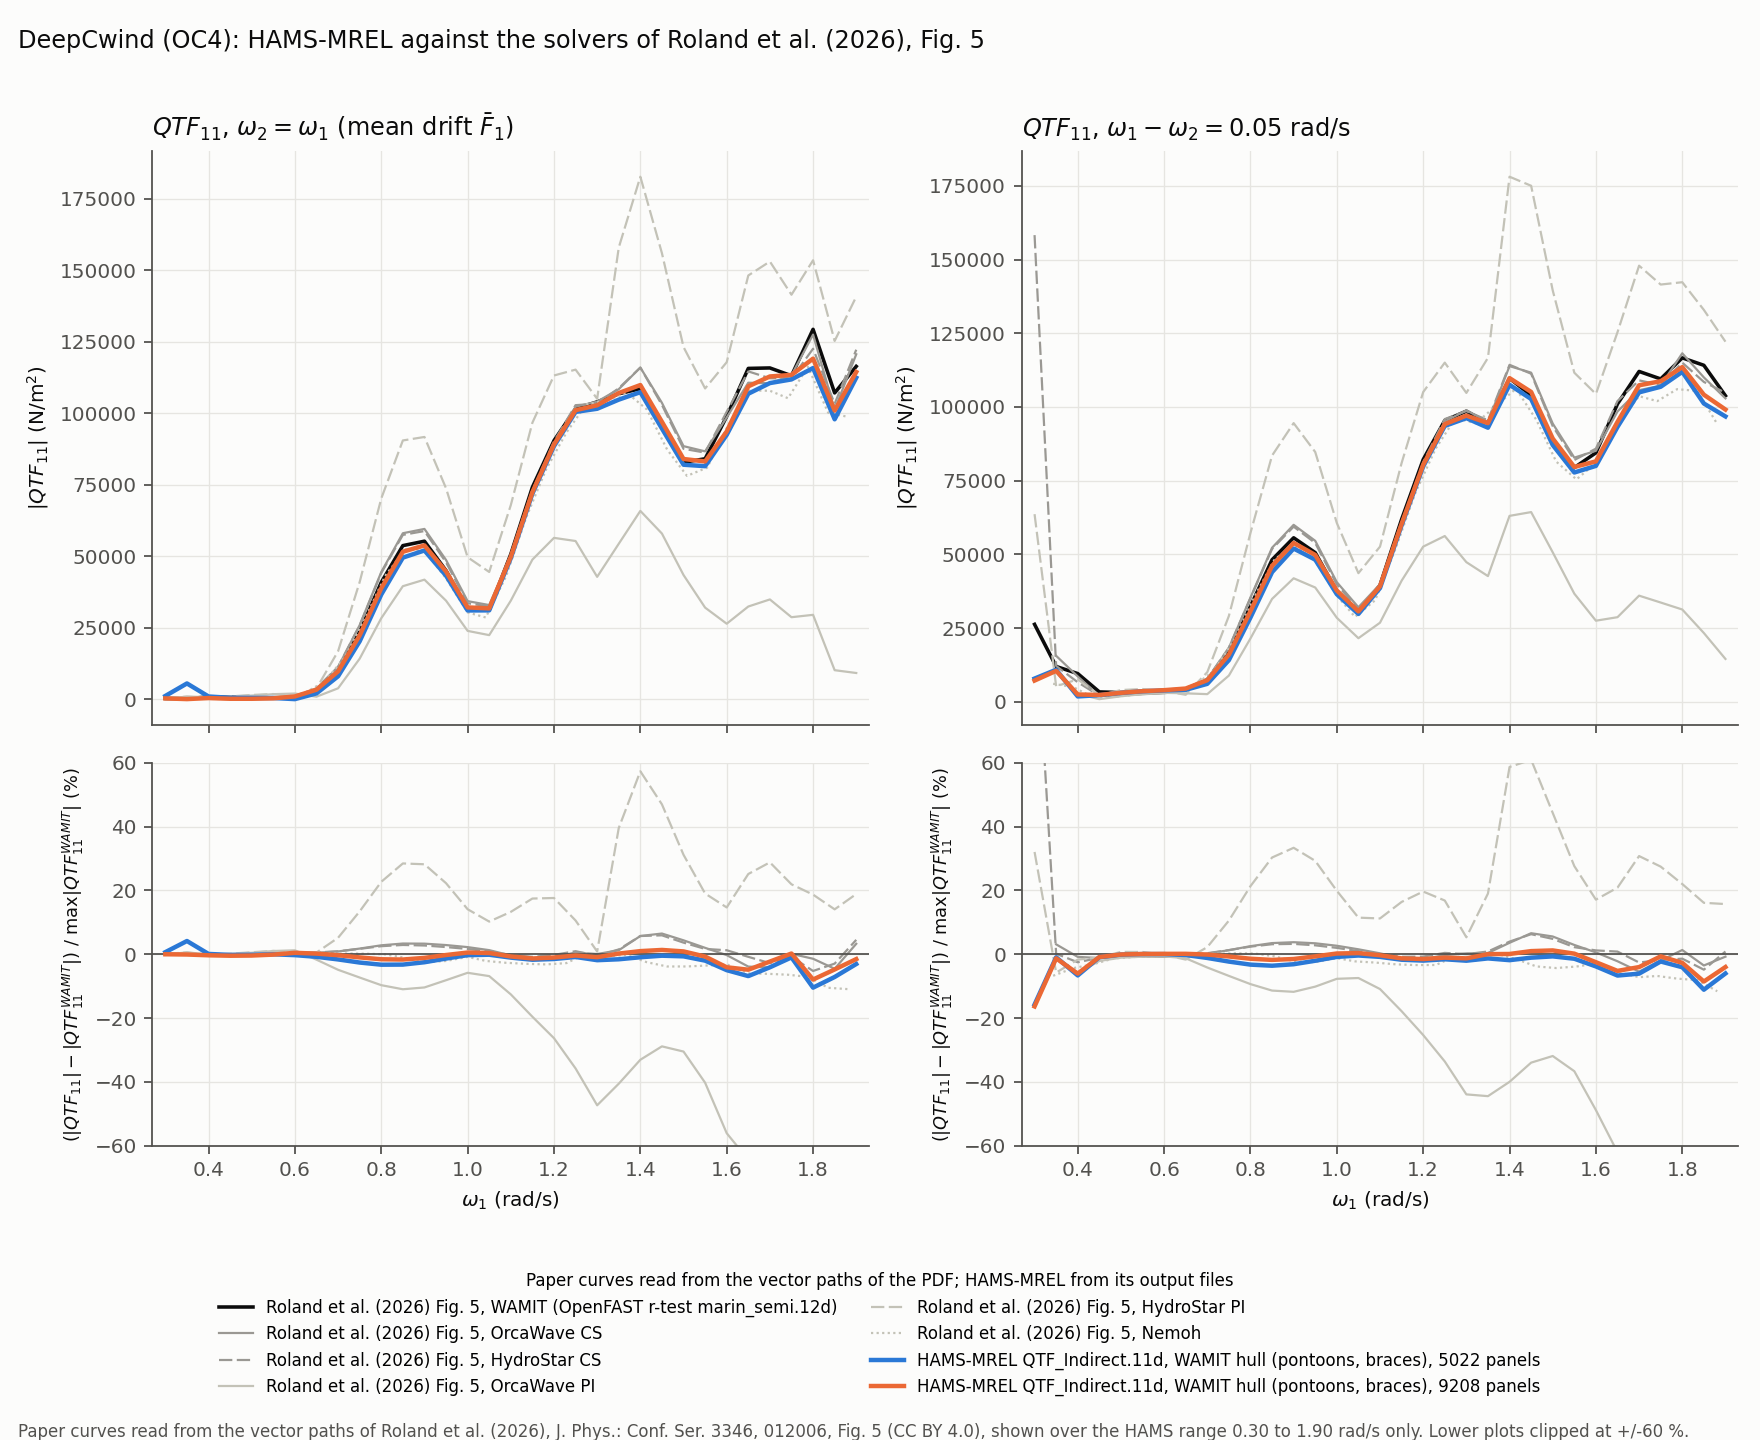
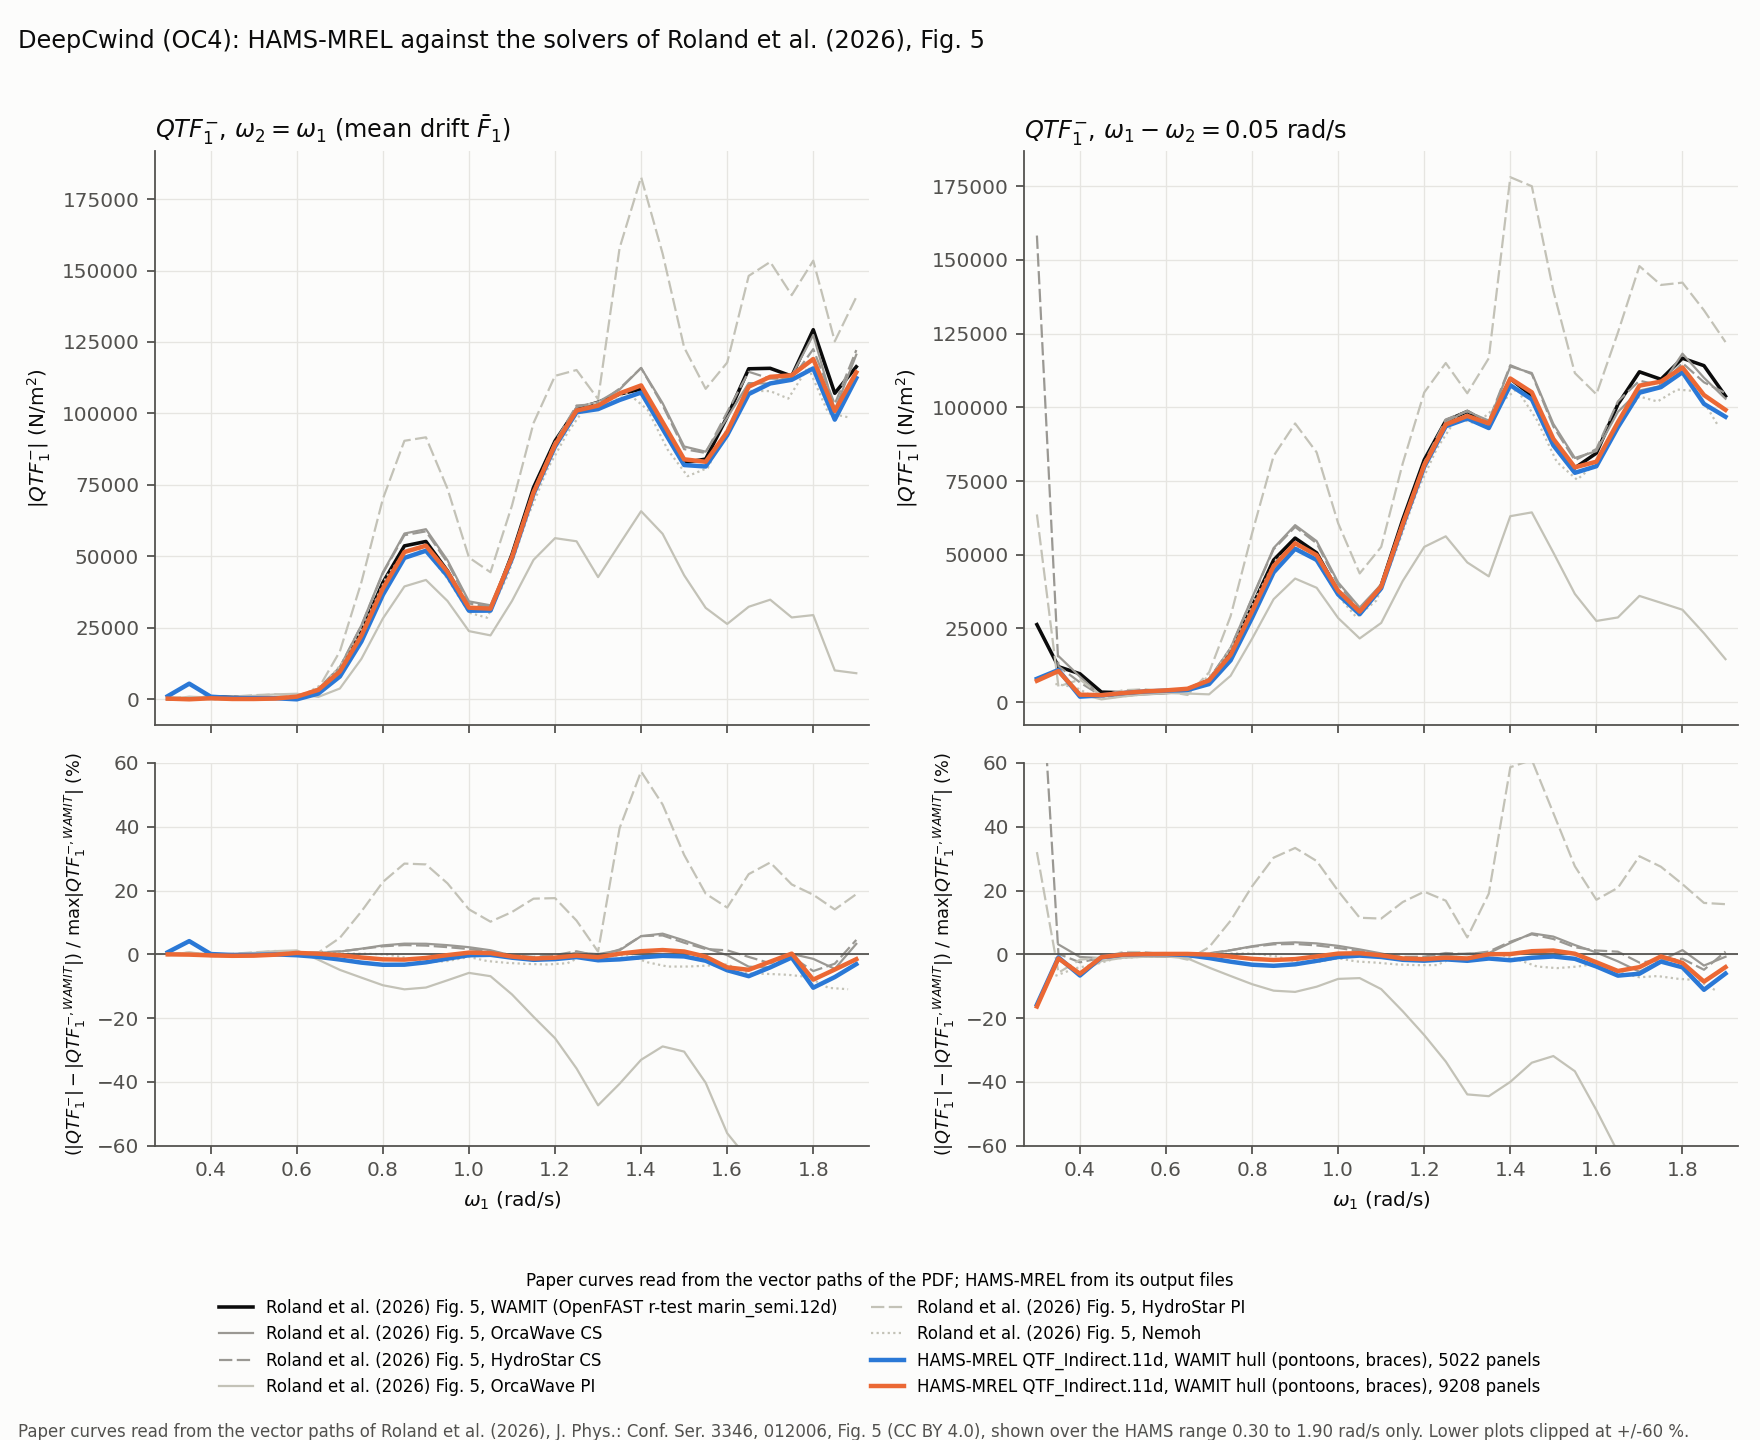
validation: Roland figures and docs use QTF⁻_1 for the surge difference QTF

diff --git a/validation-runs/roland-benchmark/compare_maps.py b/validation-runs/roland-benchmark/compare_maps.py
@@ -103,16 +103,16 @@ def main(argv):
     for col, (name, M) in enumerate(((opts["hams_label"], H), (opts["ref_label"], W))):
         im = axes[0, col].imshow(np.abs(M), origin="lower", extent=ext, cmap="jet", vmin=0, vmax=6e5)
         axes[0, col].set_title(textwrap.fill(name, 36), loc="left", fontsize=8.5)
-        fig.colorbar(im, ax=axes[0, col], label=r"$|QTF_{11}|$ (N/m$^2$)", extend="max", shrink=0.85)
+        fig.colorbar(im, ax=axes[0, col], label=r"$|QTF^{-}_{1}|$ (N/m$^2$)", extend="max", shrink=0.85)
         ip = axes[1, col].imshow(np.angle(M), origin="lower", extent=ext, cmap="jet", vmin=-math.pi, vmax=math.pi)
         axes[1, col].set_title(textwrap.fill(name, 36), loc="left", fontsize=8.5)
-        fig.colorbar(ip, ax=axes[1, col], label=r"arg $QTF_{11}$ (rad)", shrink=0.85)
+        fig.colorbar(ip, ax=axes[1, col], label=r"arg $QTF^{-}_{1}$ (rad)", shrink=0.85)
     idiff = axes[0, 2].imshow(100 * D / scale, origin="lower", extent=ext, cmap="viridis", vmin=0, vmax=10)
     axes[0, 2].set_title("Difference of the two", loc="left", fontsize=8.5)
-    fig.colorbar(idiff, ax=axes[0, 2], label=r"$|QTF_{11} - QTF_{11}^{WAMIT}|$ / max$|QTF_{11}^{WAMIT}|$ (%)",
+    fig.colorbar(idiff, ax=axes[0, 2], label=r"$|QTF^{-}_{1} - QTF_1^{-,WAMIT}|$ / max$|QTF_1^{-,WAMIT}|$ (%)",
                  extend="max", shrink=0.85)
     axes[1, 2].axis("off")
-    table = ["|QTF_11 - QTF_11,WAMIT| / max|QTF_11,WAMIT|", "largest / median, %", "max|QTF_11,WAMIT| = %.3g N/m^2" % scale,
+    table = ["|QTF⁻_1 - QTF⁻_1,WAMIT| / max|QTF⁻_1,WAMIT|", "largest / median, %", "max|QTF⁻_1,WAMIT| = %.3g N/m^2" % scale,
              "omega in [%.2f, %.2f] rad/s" % (lo, hi), ""] + [l.strip() for l in lines[2:]]
     axes[1, 2].text(0.0, 1.0, "\n".join(table), va="top", ha="left", fontsize=7.5,
                     family="monospace", color=INK, transform=axes[1, 2].transAxes)

diff --git a/validation-runs/roland-benchmark/compare_diagonals.py b/validation-runs/roland-benchmark/compare_diagonals.py
@@ -110,9 +110,9 @@ def main(argv):
             lines.append("  %-32s %7.2f at %.2f / %5.2f" % (label, e.max(), x[np.argmax(e)], np.median(e)))
         lines.append("")
         name = r"$\omega_2 = \omega_1$ (mean drift $\bar F_1$)" if dw == "0.00" else r"$\omega_1 - \omega_2 = 0.05$ rad/s"
-        top.set_title(r"$QTF_{11}$, %s" % name, loc="left", color=INK)
-        top.set_ylabel(r"$|QTF_{11}|$ (N/m$^2$)")
-        bottom.set_ylabel(r"$(|QTF_{11}| - |QTF_{11}^{WAMIT}|)$ / max$|QTF_{11}^{WAMIT}|$ (%)", fontsize=8)
+        top.set_title(r"$QTF^{-}_{1}$, %s" % name, loc="left", color=INK)
+        top.set_ylabel(r"$|QTF^{-}_{1}|$ (N/m$^2$)")
+        bottom.set_ylabel(r"$(|QTF^{-}_{1}| - |QTF_1^{-,WAMIT}|)$ / max$|QTF_1^{-,WAMIT}|$ (%)", fontsize=8)
         bottom.set_xlabel(r"$\omega_1$ (rad/s)")
         bottom.axhline(0.0, color=INK2, lw=0.8)
         bottom.set_ylim(-60, 60)

diff --git a/docs/second_order_validation.md b/docs/second_order_validation.md
@@ -561,7 +561,7 @@ Roland et al. (2026) compare four boundary element solvers on the surge differen
 | HAMS, 5022 panels | 10.46 (1.80) / 1.49 | 15.77 (0.30) / 1.86 |
 | HAMS, 9208 panels | 7.92 (1.80) / 0.73 | 16.34 (0.30) / 1.07 |
 
-![Difference-frequency QTF_11 (surge) of OC4 on the mean-drift diagonal (F̄_1) and the diagonal of 0.05 rad/s: the six solver set-ups of Roland et al. (2026), Fig. 5, read from the vector paths of the PDF (WAMIT: OpenFAST r-test `marin_semi.12d`), and HAMS-MREL `QTF_Indirect.11d` at 5022 and 9208 panels; below, the difference from WAMIT over the largest WAMIT value; all curves over the HAMS range of 0.30 to 1.90 rad/s](figures/roland_oc4_diagonals.png)
+![Difference-frequency QTF⁻_1 (surge) of OC4 on the mean-drift diagonal (F̄_1) and the diagonal of 0.05 rad/s: the six solver set-ups of Roland et al. (2026), Fig. 5, read from the vector paths of the PDF (WAMIT: OpenFAST r-test `marin_semi.12d`), and HAMS-MREL `QTF_Indirect.11d` at 5022 and 9208 panels; below, the difference from WAMIT over the largest WAMIT value; all curves over the HAMS range of 0.30 to 1.90 rad/s](figures/roland_oc4_diagonals.png)
 
 - HAMS integrates the pressure on the hull, a near-field method, yet its results fall in the group of the paper's middle-field solvers, not with the near-field ones. The paper's near-field results are 57% to 83% off WAMIT at the largest, with medians of 12.6% to 17.1%. Those of HAMS are 7.9% to 16.3%, with medians of 0.7% to 1.9%.
 - The median falls with the mesh, from 1.49% to 0.73% on the mean drift and from 1.86% to 1.07% at 0.05 rad/s. At 9208 panels it is the lowest of all the solvers.
@@ -575,7 +575,7 @@ The whole QTF, in the style of the paper's Fig. 4 (`compare_maps.py`, HAMS at 92
 | 0 < Δω ≤ 0.30 rad/s | 4.66 / 0.87 | 4.66 / 0.80 |
 | diagonal | 3.36 / 0.38 | 3.36 / 0.39 |
 
-![Difference-frequency QTF_11 (surge) of OC4, magnitude and phase: HAMS-MREL `QTF_Indirect.11d` at 9208 panels and WAMIT, OpenFAST r-test `marin_semi.12d` (the reference of Roland et al. 2026), with the modulus of the difference; jet colour scale from 0 to 6e5 N/m² as in the paper's Fig. 4](figures/roland_oc4_maps.png)
+![Difference-frequency QTF⁻_1 (surge) of OC4, magnitude and phase: HAMS-MREL `QTF_Indirect.11d` at 9208 panels and WAMIT, OpenFAST r-test `marin_semi.12d` (the reference of Roland et al. 2026), with the modulus of the difference; jet colour scale from 0 to 6e5 N/m² as in the paper's Fig. 4](figures/roland_oc4_maps.png)
 
 - Over the slow-drift range, 0 < Δω ≤ 0.30 rad/s, HAMS is within 4.66% of the largest WAMIT value (median 0.87%). The magnitude and phase maps show the same pattern.
 - The largest differences are far from the diagonal, at pairs with a frequency in 0.25 to 0.35 rad/s (the heave and pitch natural frequencies) or close to 1.90 rad/s, as in [OC4 against WAMIT](#oc4-against-wamit).
